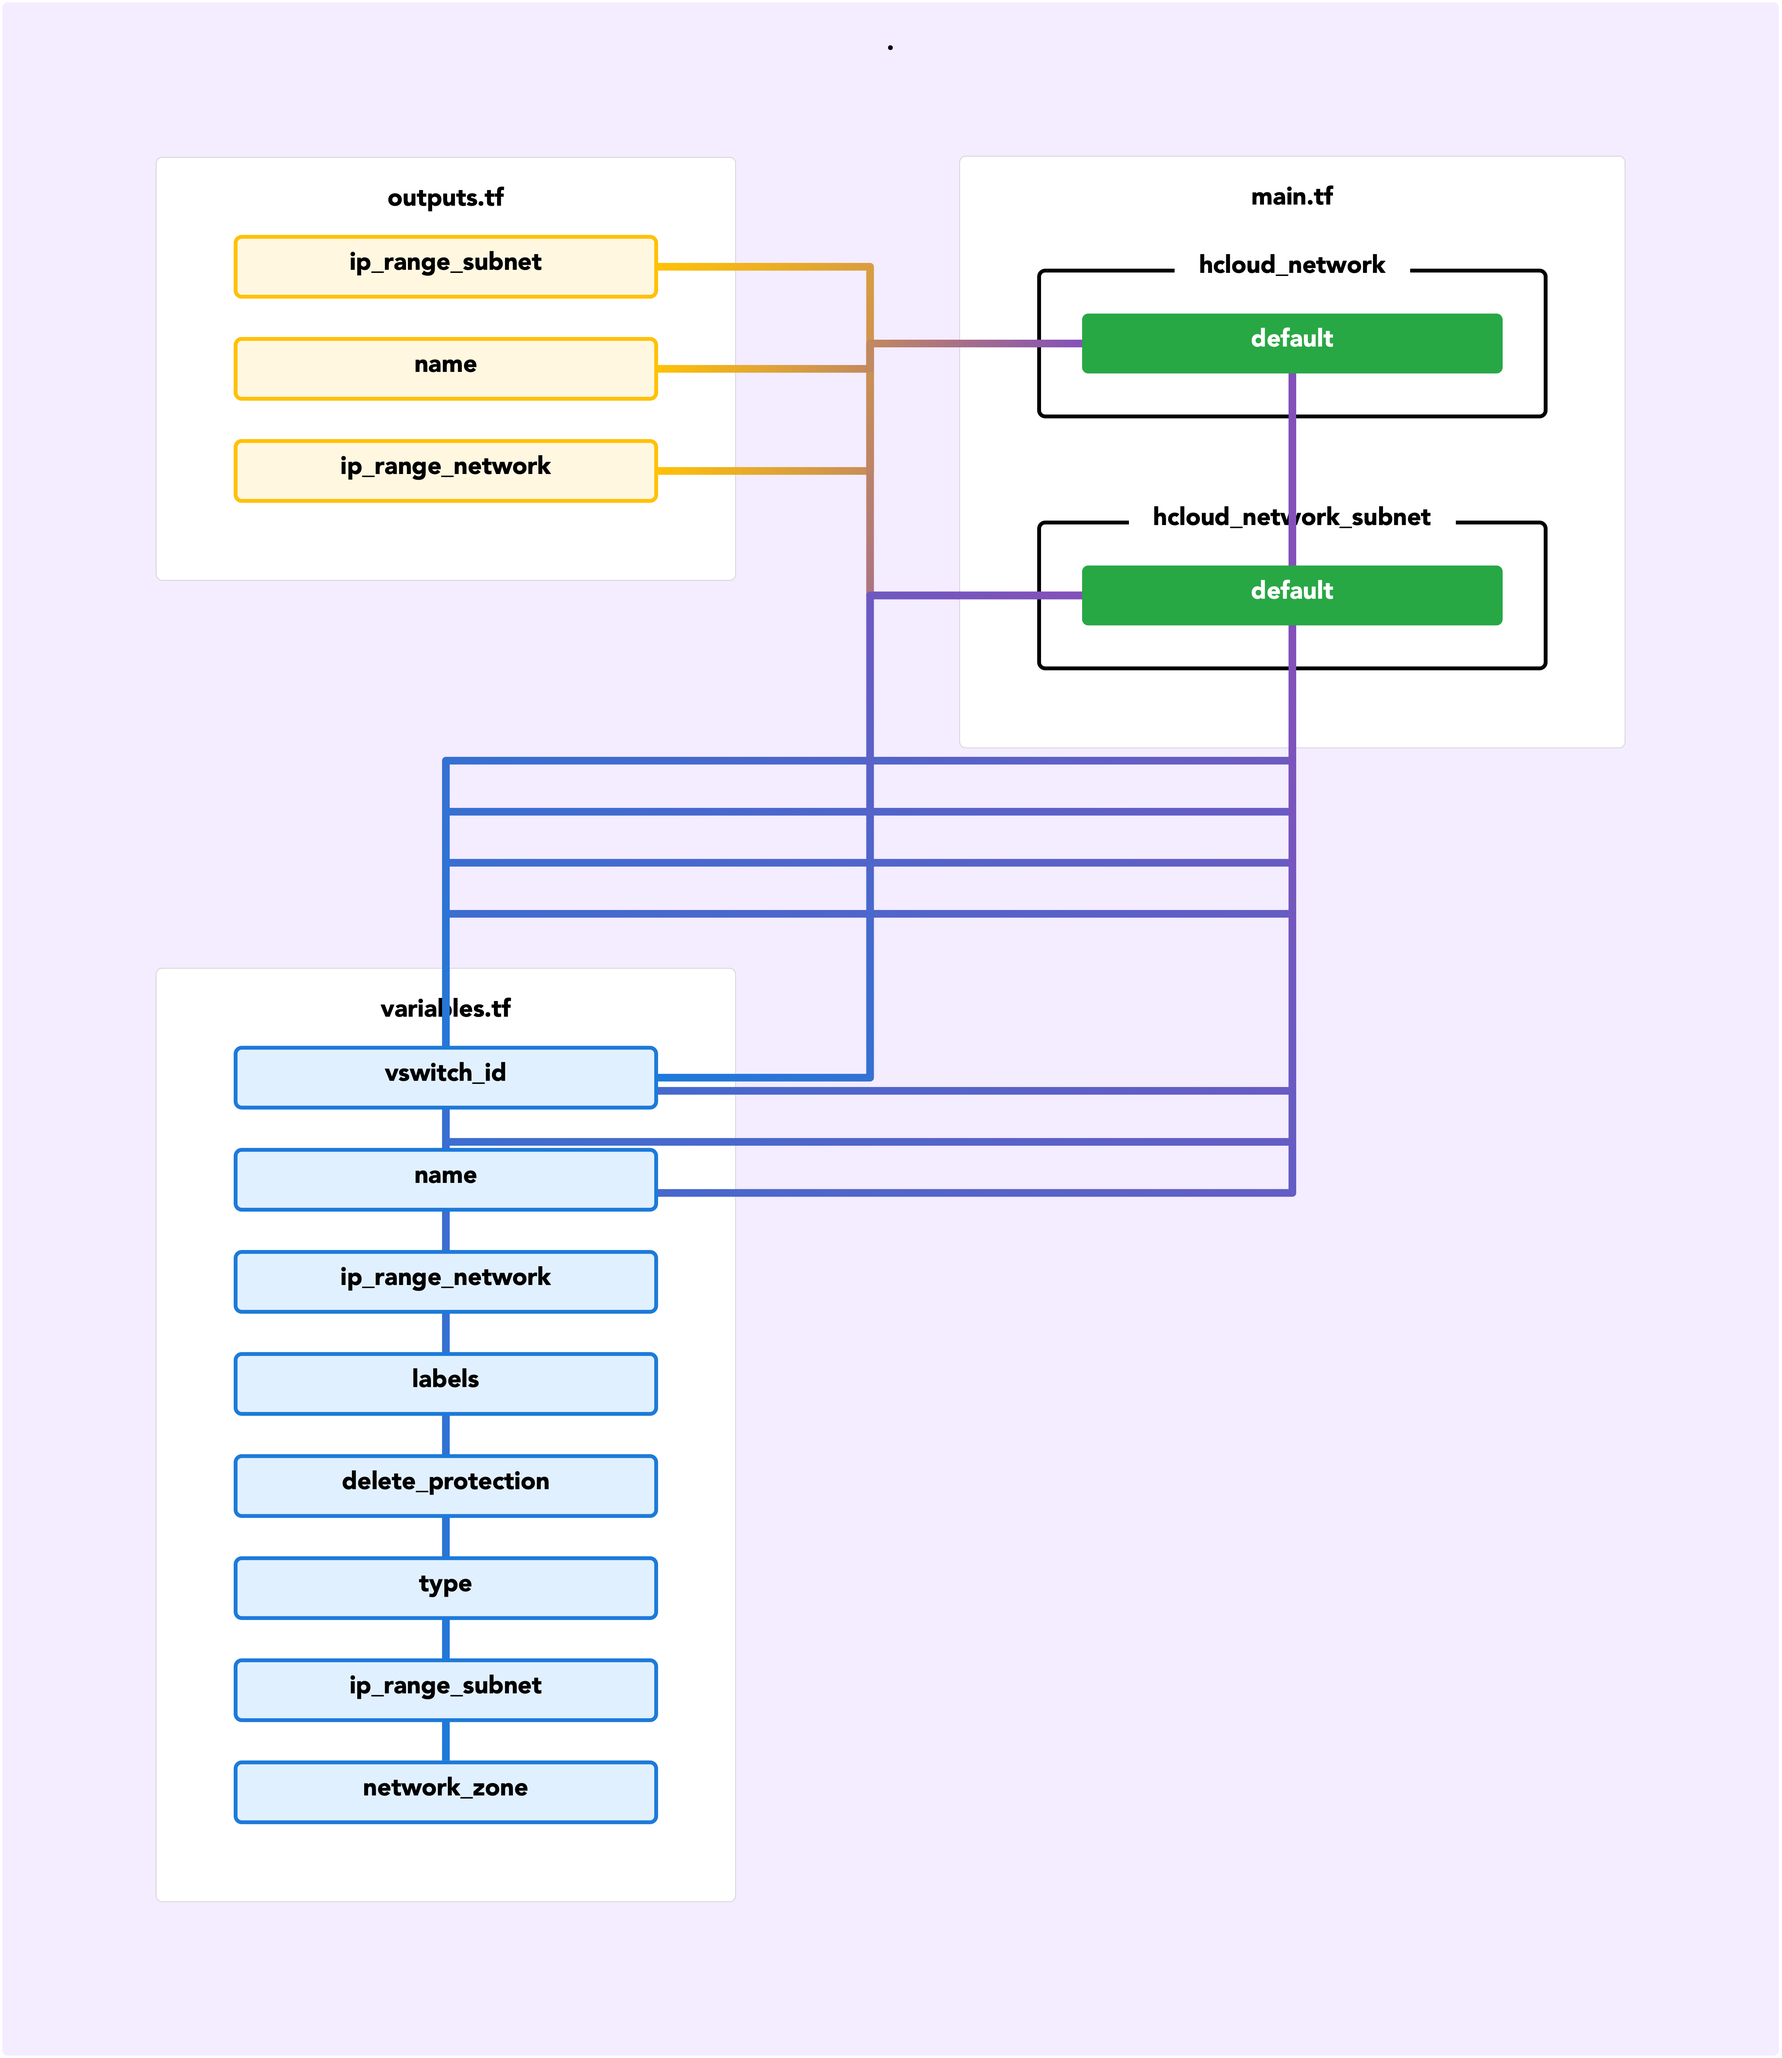
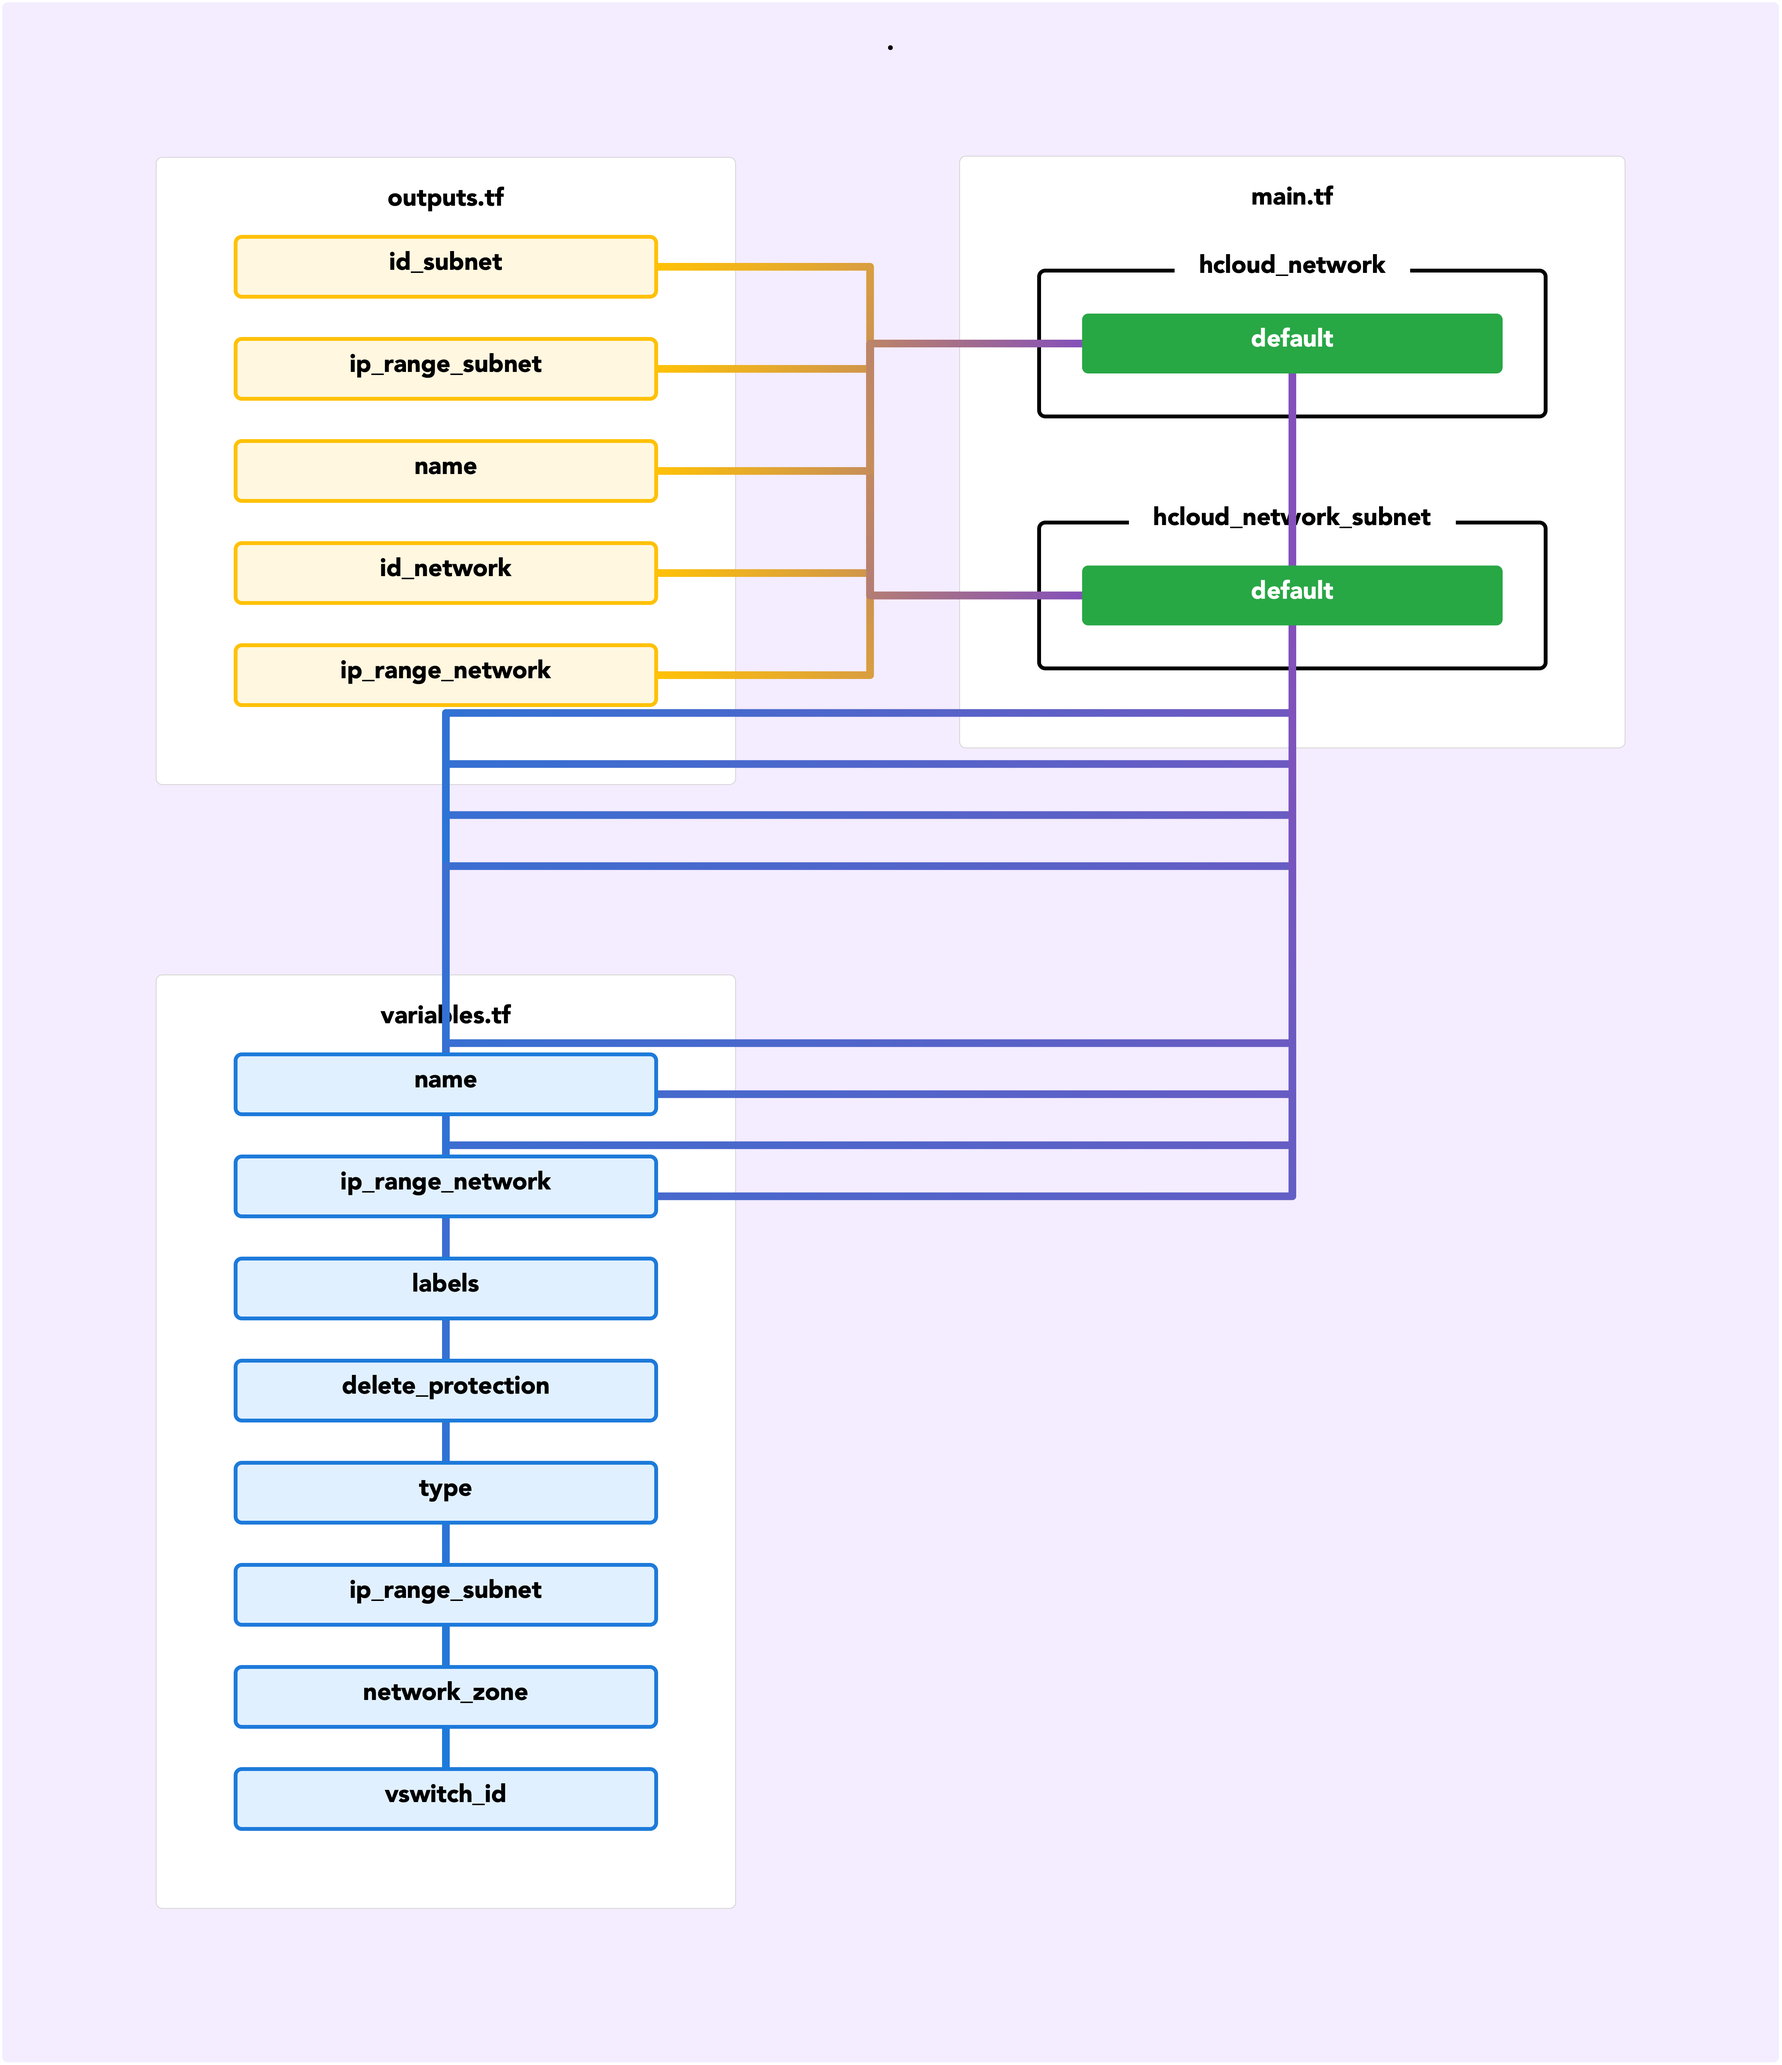
fix: Add additional outputs (#4)
* fix: Add additional outputs
* id_network
* id_subnet

* docs: Generate README.md

diff --git a/README.md b/README.md
@@ -65,6 +65,8 @@ No modules.
 
 | Name | Description |
 |------|-------------|
+| <a name="output_id_network"></a> [id\_network](#output\_id\_network) | Unique ID of the network |
+| <a name="output_id_subnet"></a> [id\_subnet](#output\_id\_subnet) | ID of the Network subnet |
 | <a name="output_ip_range_network"></a> [ip\_range\_network](#output\_ip\_range\_network) | IPv4 Prefix of the whole Network |
 | <a name="output_ip_range_subnet"></a> [ip\_range\_subnet](#output\_ip\_range\_subnet) | Range to allocate IPs from |
 | <a name="output_name"></a> [name](#output\_name) | Name of the network |
